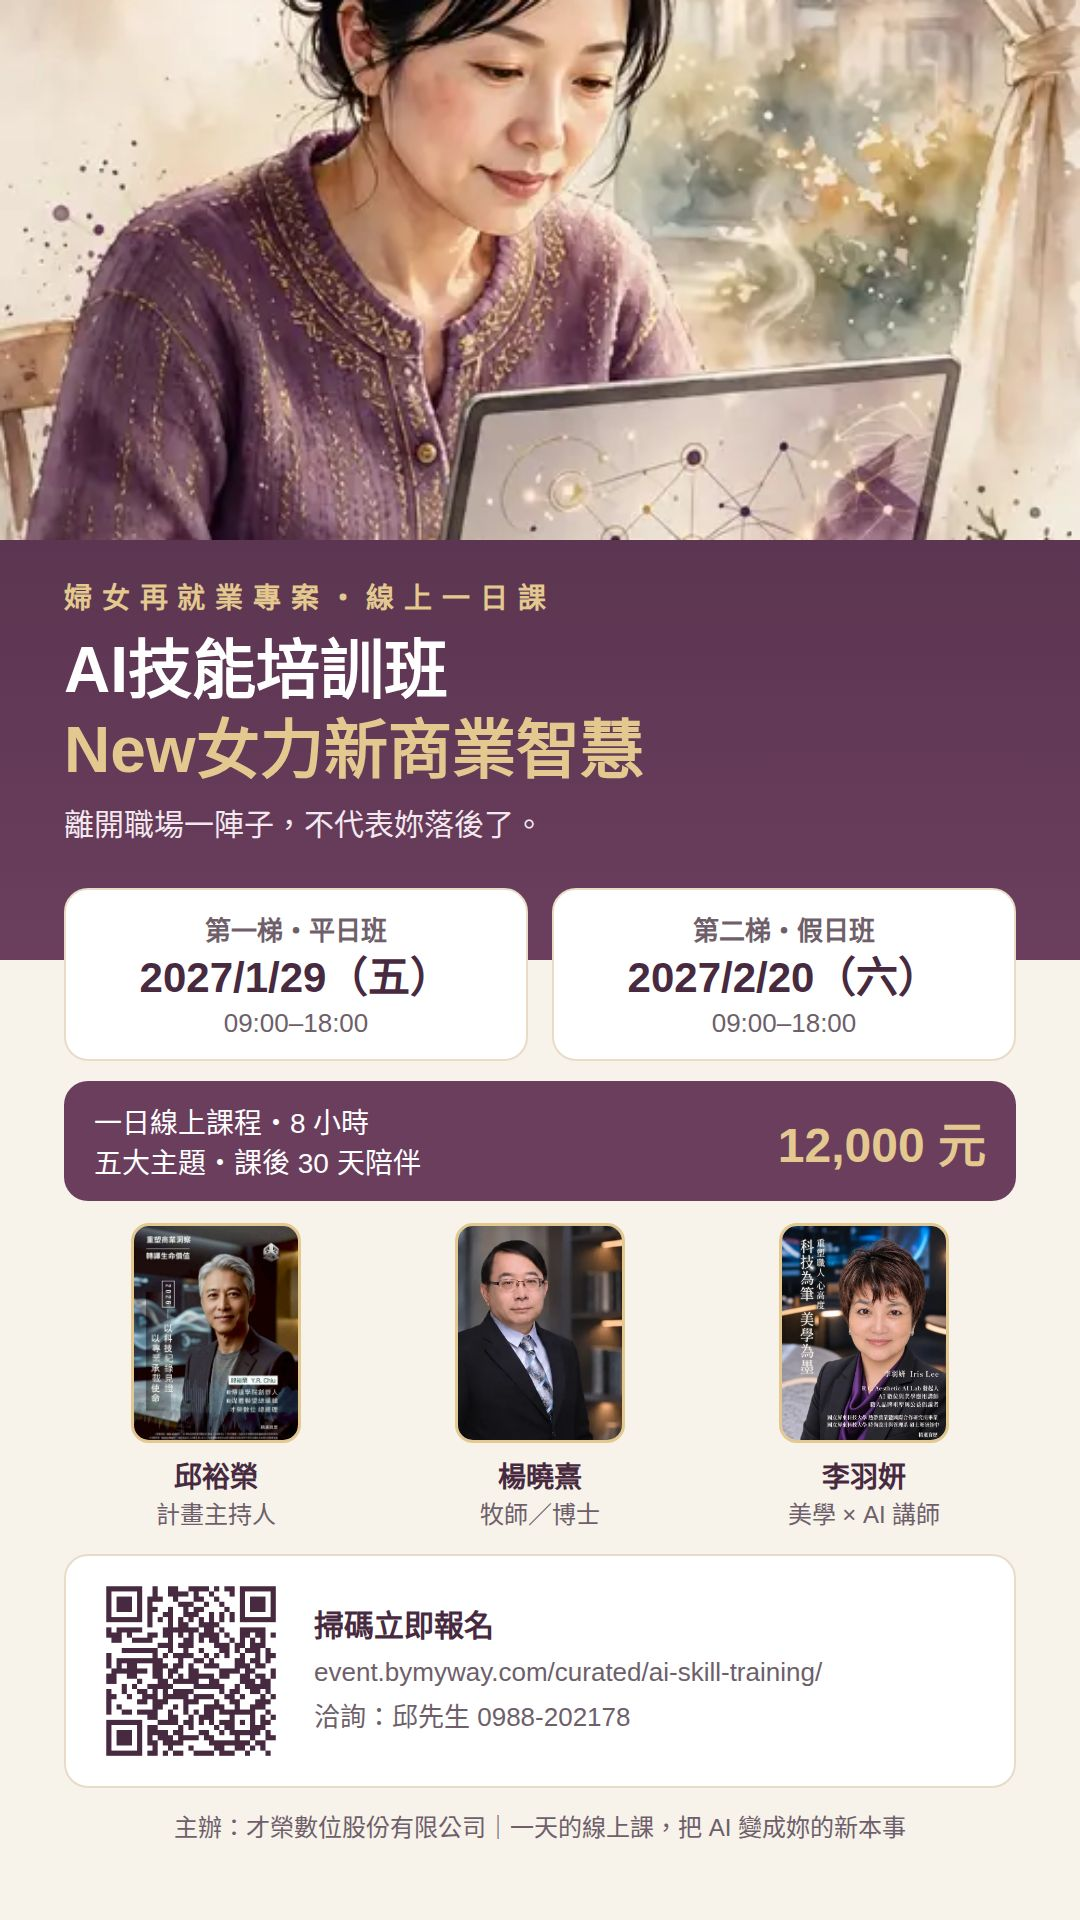
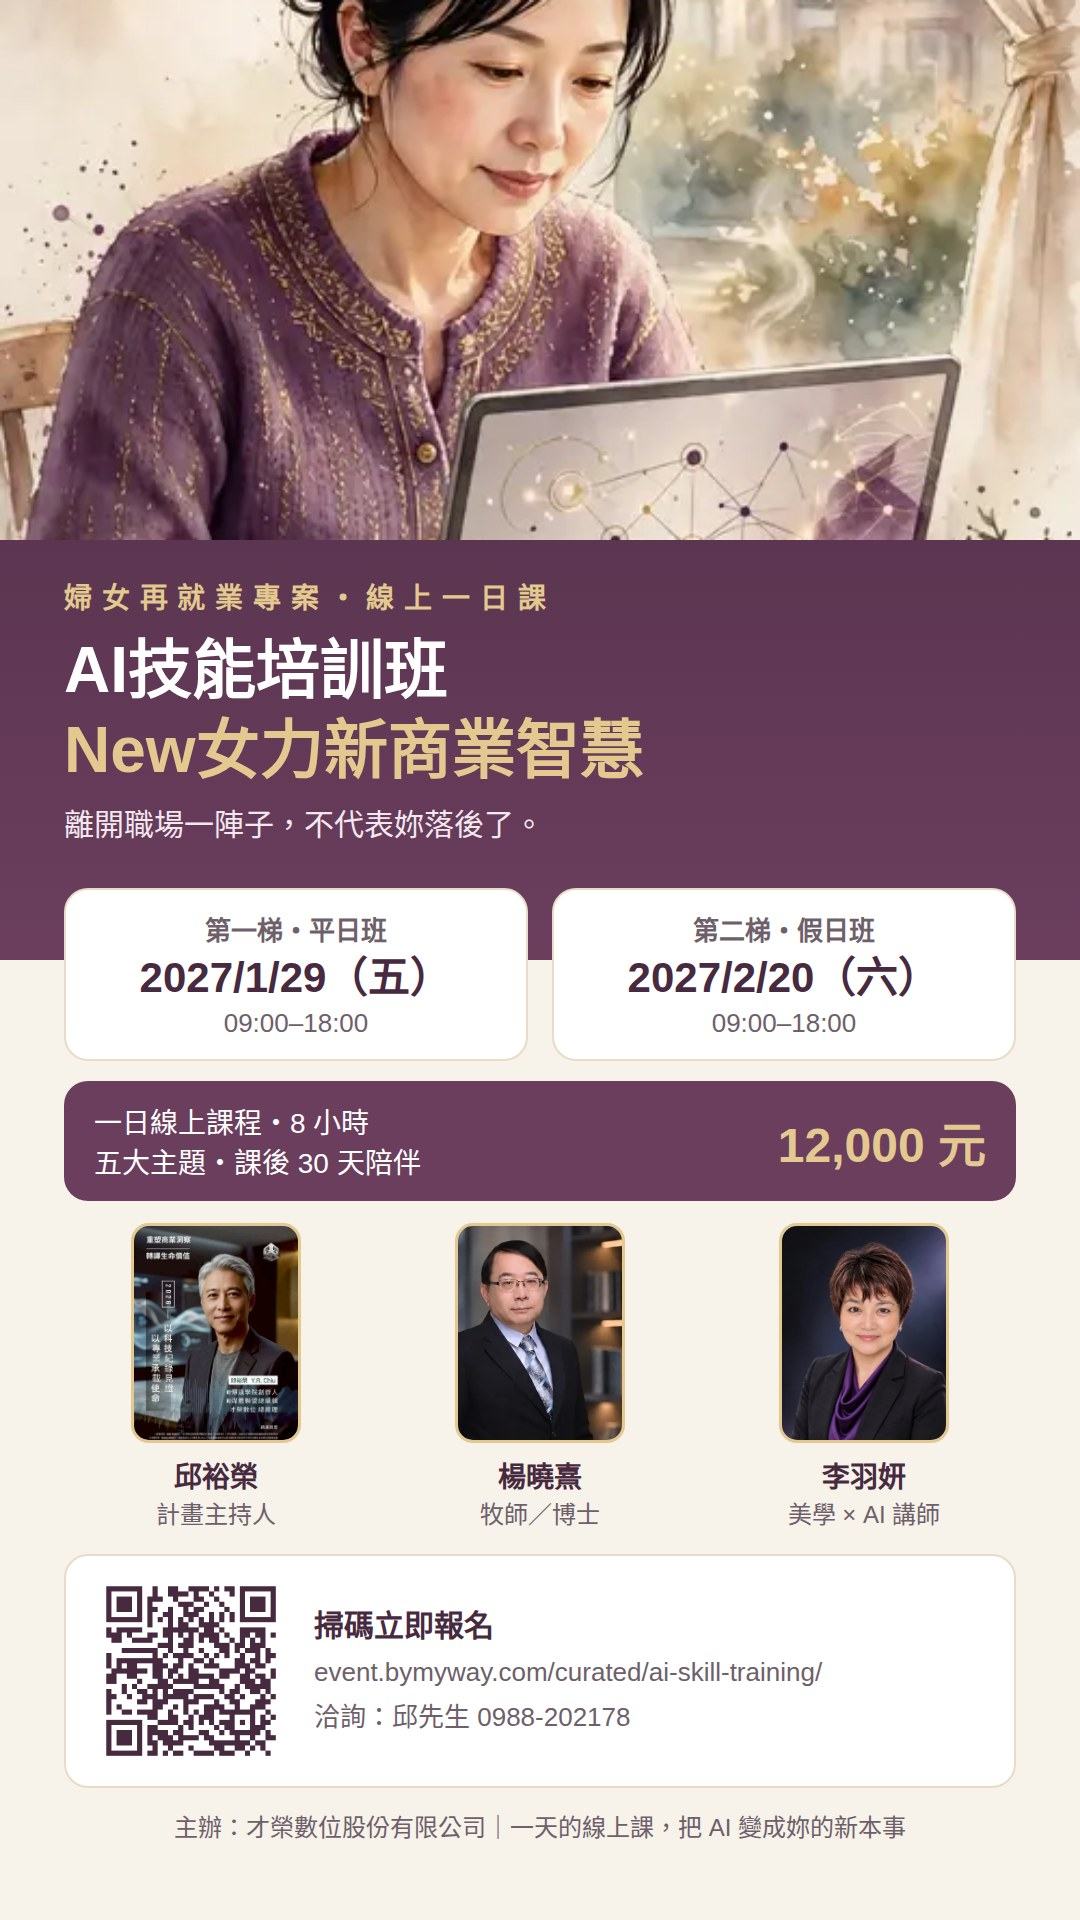
AI技能培訓班：李羽妍講師換教練棚拍半身照（720×1280）、照片框改3:4不切頭、直橫式EDM重出

Changed region(s): [[0.7028, 0.625, 0.8861, 0.75]]

diff --git a/index.html b/index.html
@@ -69,7 +69,7 @@ nav ul a:hover{color:var(--plum)}
 .slot{position:relative;border-radius:var(--radius);overflow:hidden;aspect-ratio:4/5;background:linear-gradient(150deg,#e8dcc8,#d9b8c4 60%,#e3c98f);box-shadow:0 30px 60px -30px rgba(71,42,64,.55)}
 .slot img{position:absolute;inset:0;width:100%;height:100%;object-fit:cover;display:block}
 .slot.wide{aspect-ratio:16/9}
-.slot.sq{aspect-ratio:4/5}.slot.sq img{object-position:center top}
+.slot.sq{aspect-ratio:3/4}.slot.sq img{object-position:50% 0}
 .t-link{display:inline-block;margin-top:18px;padding:12px 26px;border-radius:999px;background:var(--plum-d);color:#fff;font-weight:700;font-size:20px;text-decoration:none}.t-link:hover{opacity:.88}.teacher-panel h3 a{color:inherit;text-decoration:none;border-bottom:2px solid var(--gold-d)}
 .badge-float{position:absolute;background:#fff;border-radius:20px;padding:12px 20px;box-shadow:0 20px 40px -18px rgba(71,42,64,.45);font-weight:700;font-size:20px;animation:bob 4s ease-in-out infinite}
 .badge-float.b1{top:6%;left:-6%;color:var(--plum)}
@@ -664,7 +664,7 @@ var teachers=[
   roles:['牧師／博士','神學教育與職場事工推動者','跨領域企業管理與教育培訓專業','心理輔導、家庭教育與教會治理實務'],
   quote:'「讓真理走進生活，讓專業成為祝福；以信仰為根基，融合專業與關懷，成就生命價值。」',
   hl:['英國克蘭菲爾大學（Cranfield University）材料工程博士','具備工程、管理、神學及心理輔導跨領域背景','擁有心理諮商及家庭教育專業資格','專長：神學教育、聖經研讀與職場事工、Havruta 家庭教育與親子成長、心理輔導與人際溝通']},
- {url:'https://event.bymyway.com/curated/li-yuyan/',photo:'images/teacher-iris2.webp',name:'李羽妍',tag:'專業講師｜以科技連結美學，讓學習成為生命轉型的力量',alt:'李羽妍講師照片',
+ {url:'https://event.bymyway.com/curated/li-yuyan/',photo:'images/teacher-iris.webp',name:'李羽妍',tag:'專業講師｜以科技連結美學，讓學習成為生命轉型的力量',alt:'李羽妍講師照片',
   roles:['R.C. Aesthetics AI Lab 創辦人','AI 數位與美學應用講師','產業人才投資方案及大學推廣教育課程講師'],
   quote:'「讓科技有溫度，讓美學走進生活；讓每個人都能透過學習，重新看見自己的價值。」',
   hl:['文化部婦女人才培訓計畫執行人與講師','具大學推廣教育、職業培訓及社區教學經驗','國立屏東科技大學 熱帶農業暨國際合作研究所畢業；時尚設計與管理系碩士班研修中','專長：生成式 AI 工具與數位創作應用、AI 美學設計與個人品牌建立、職場 AI 應用與數位能力培訓']}];
